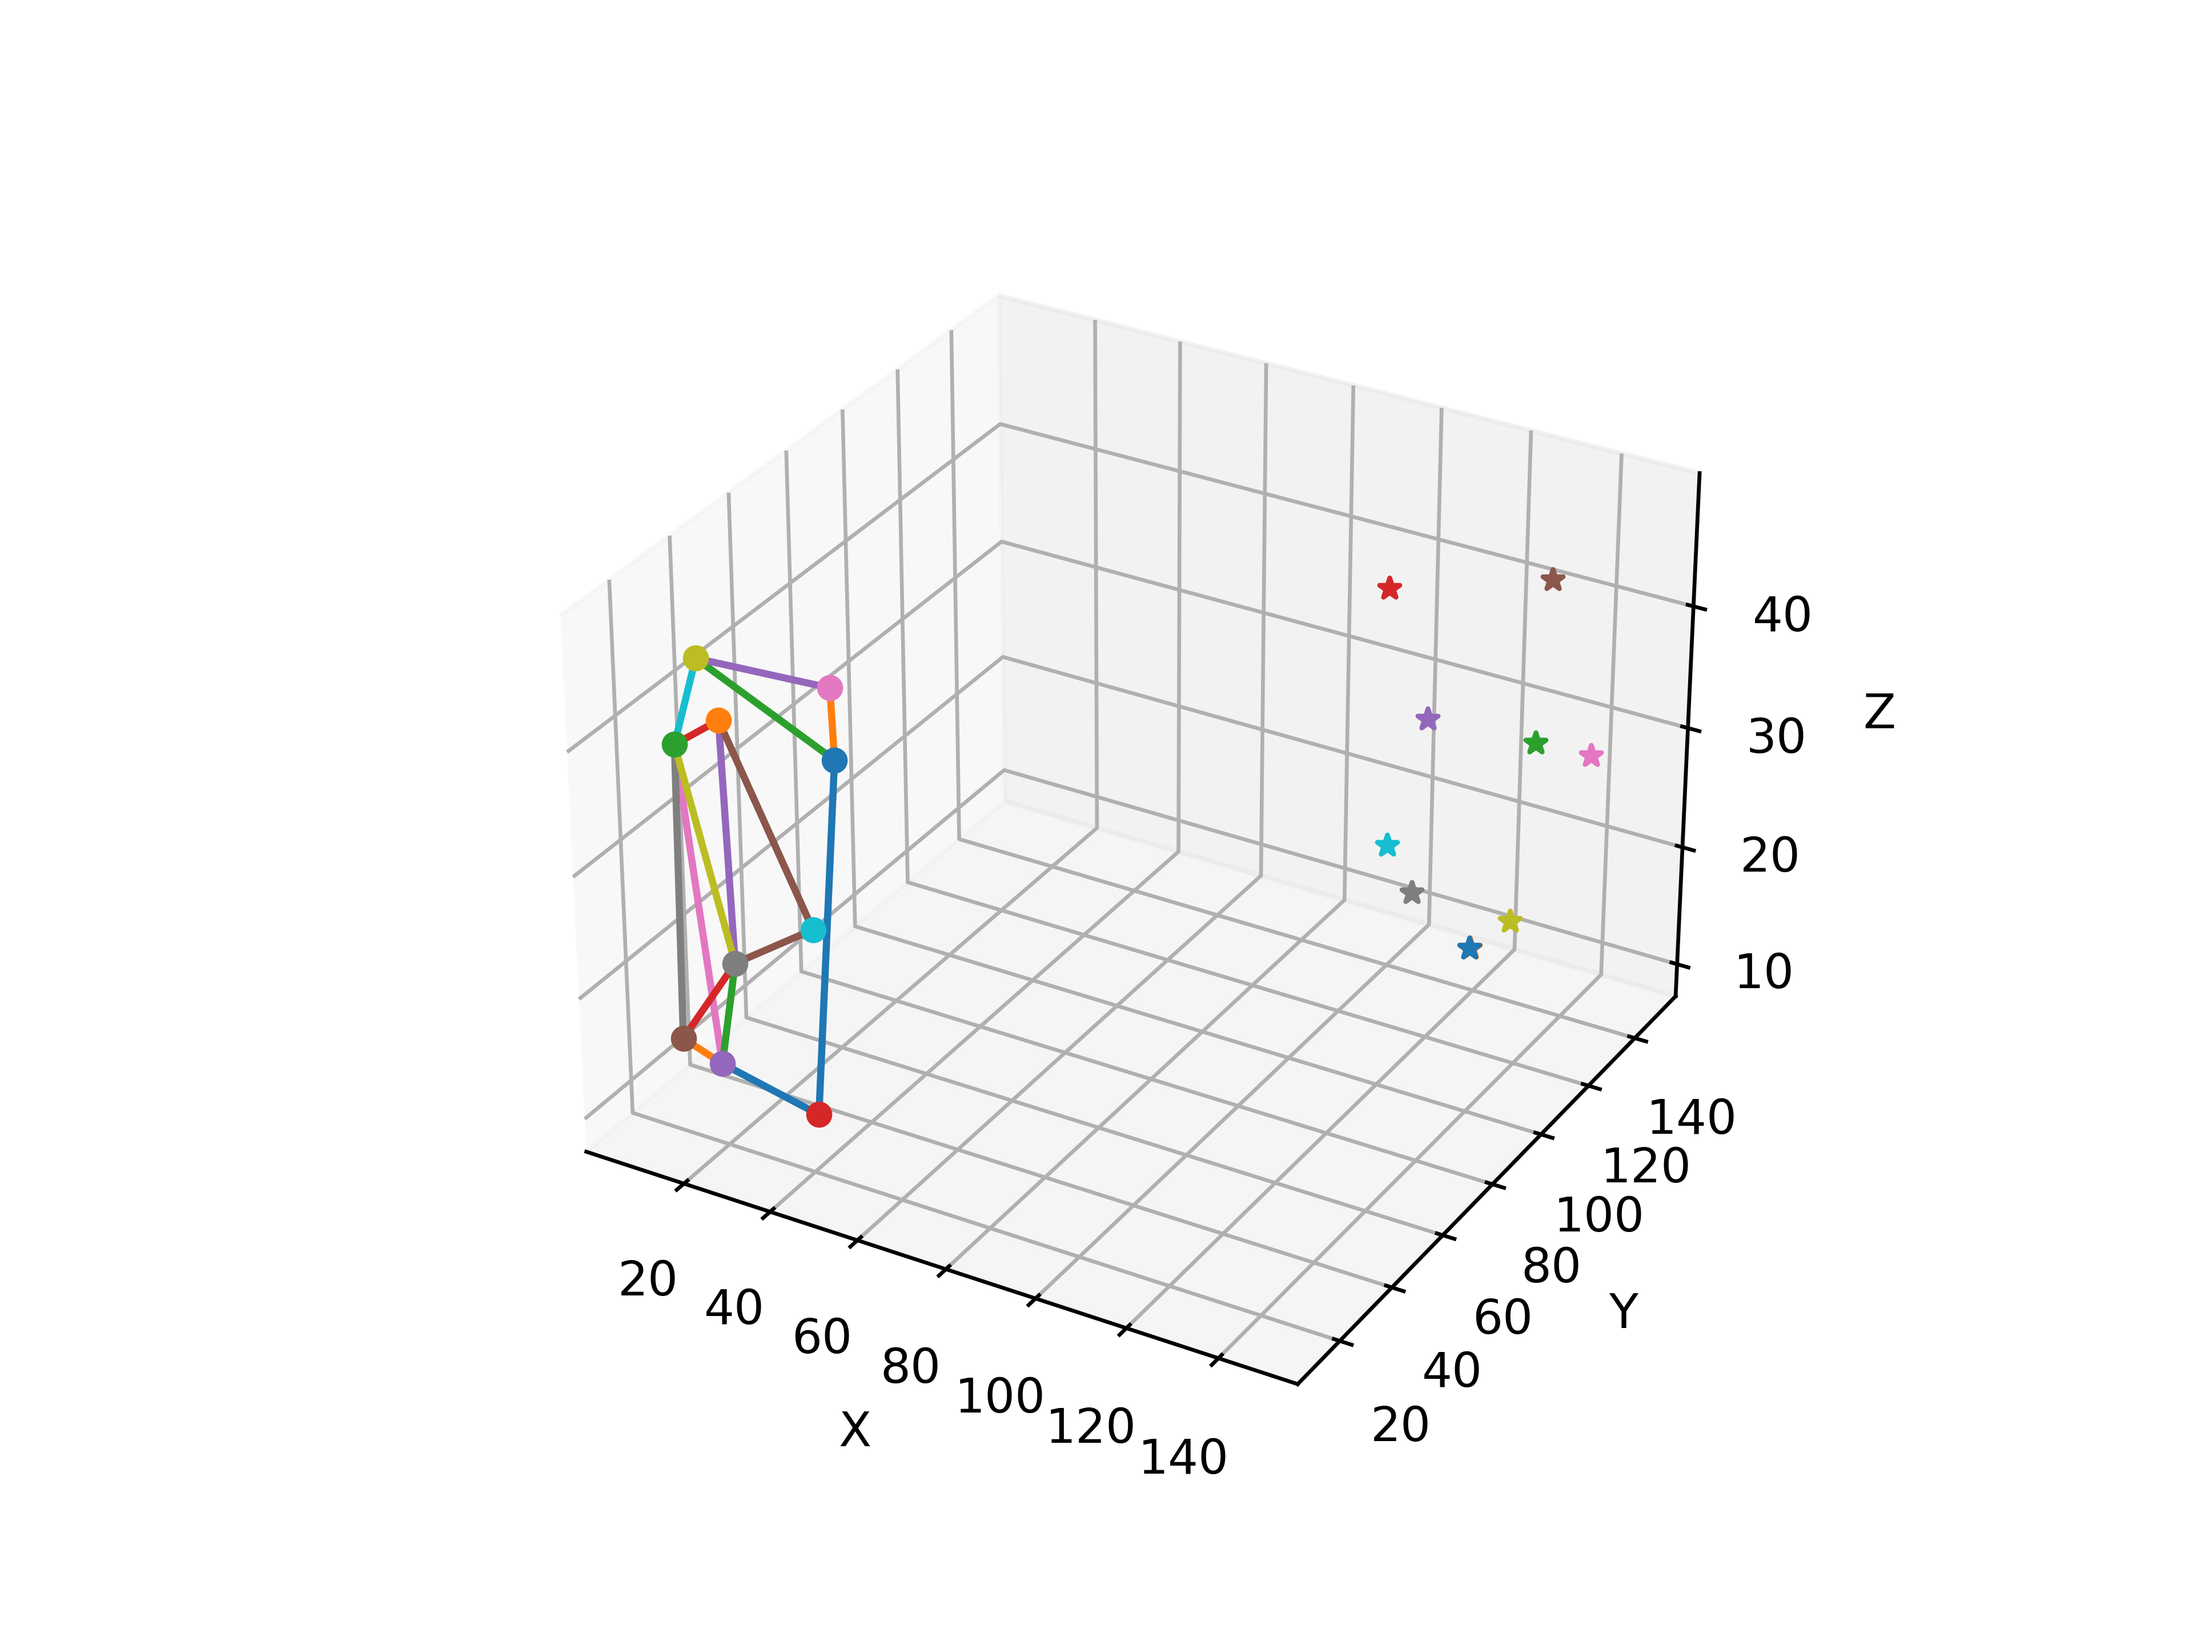
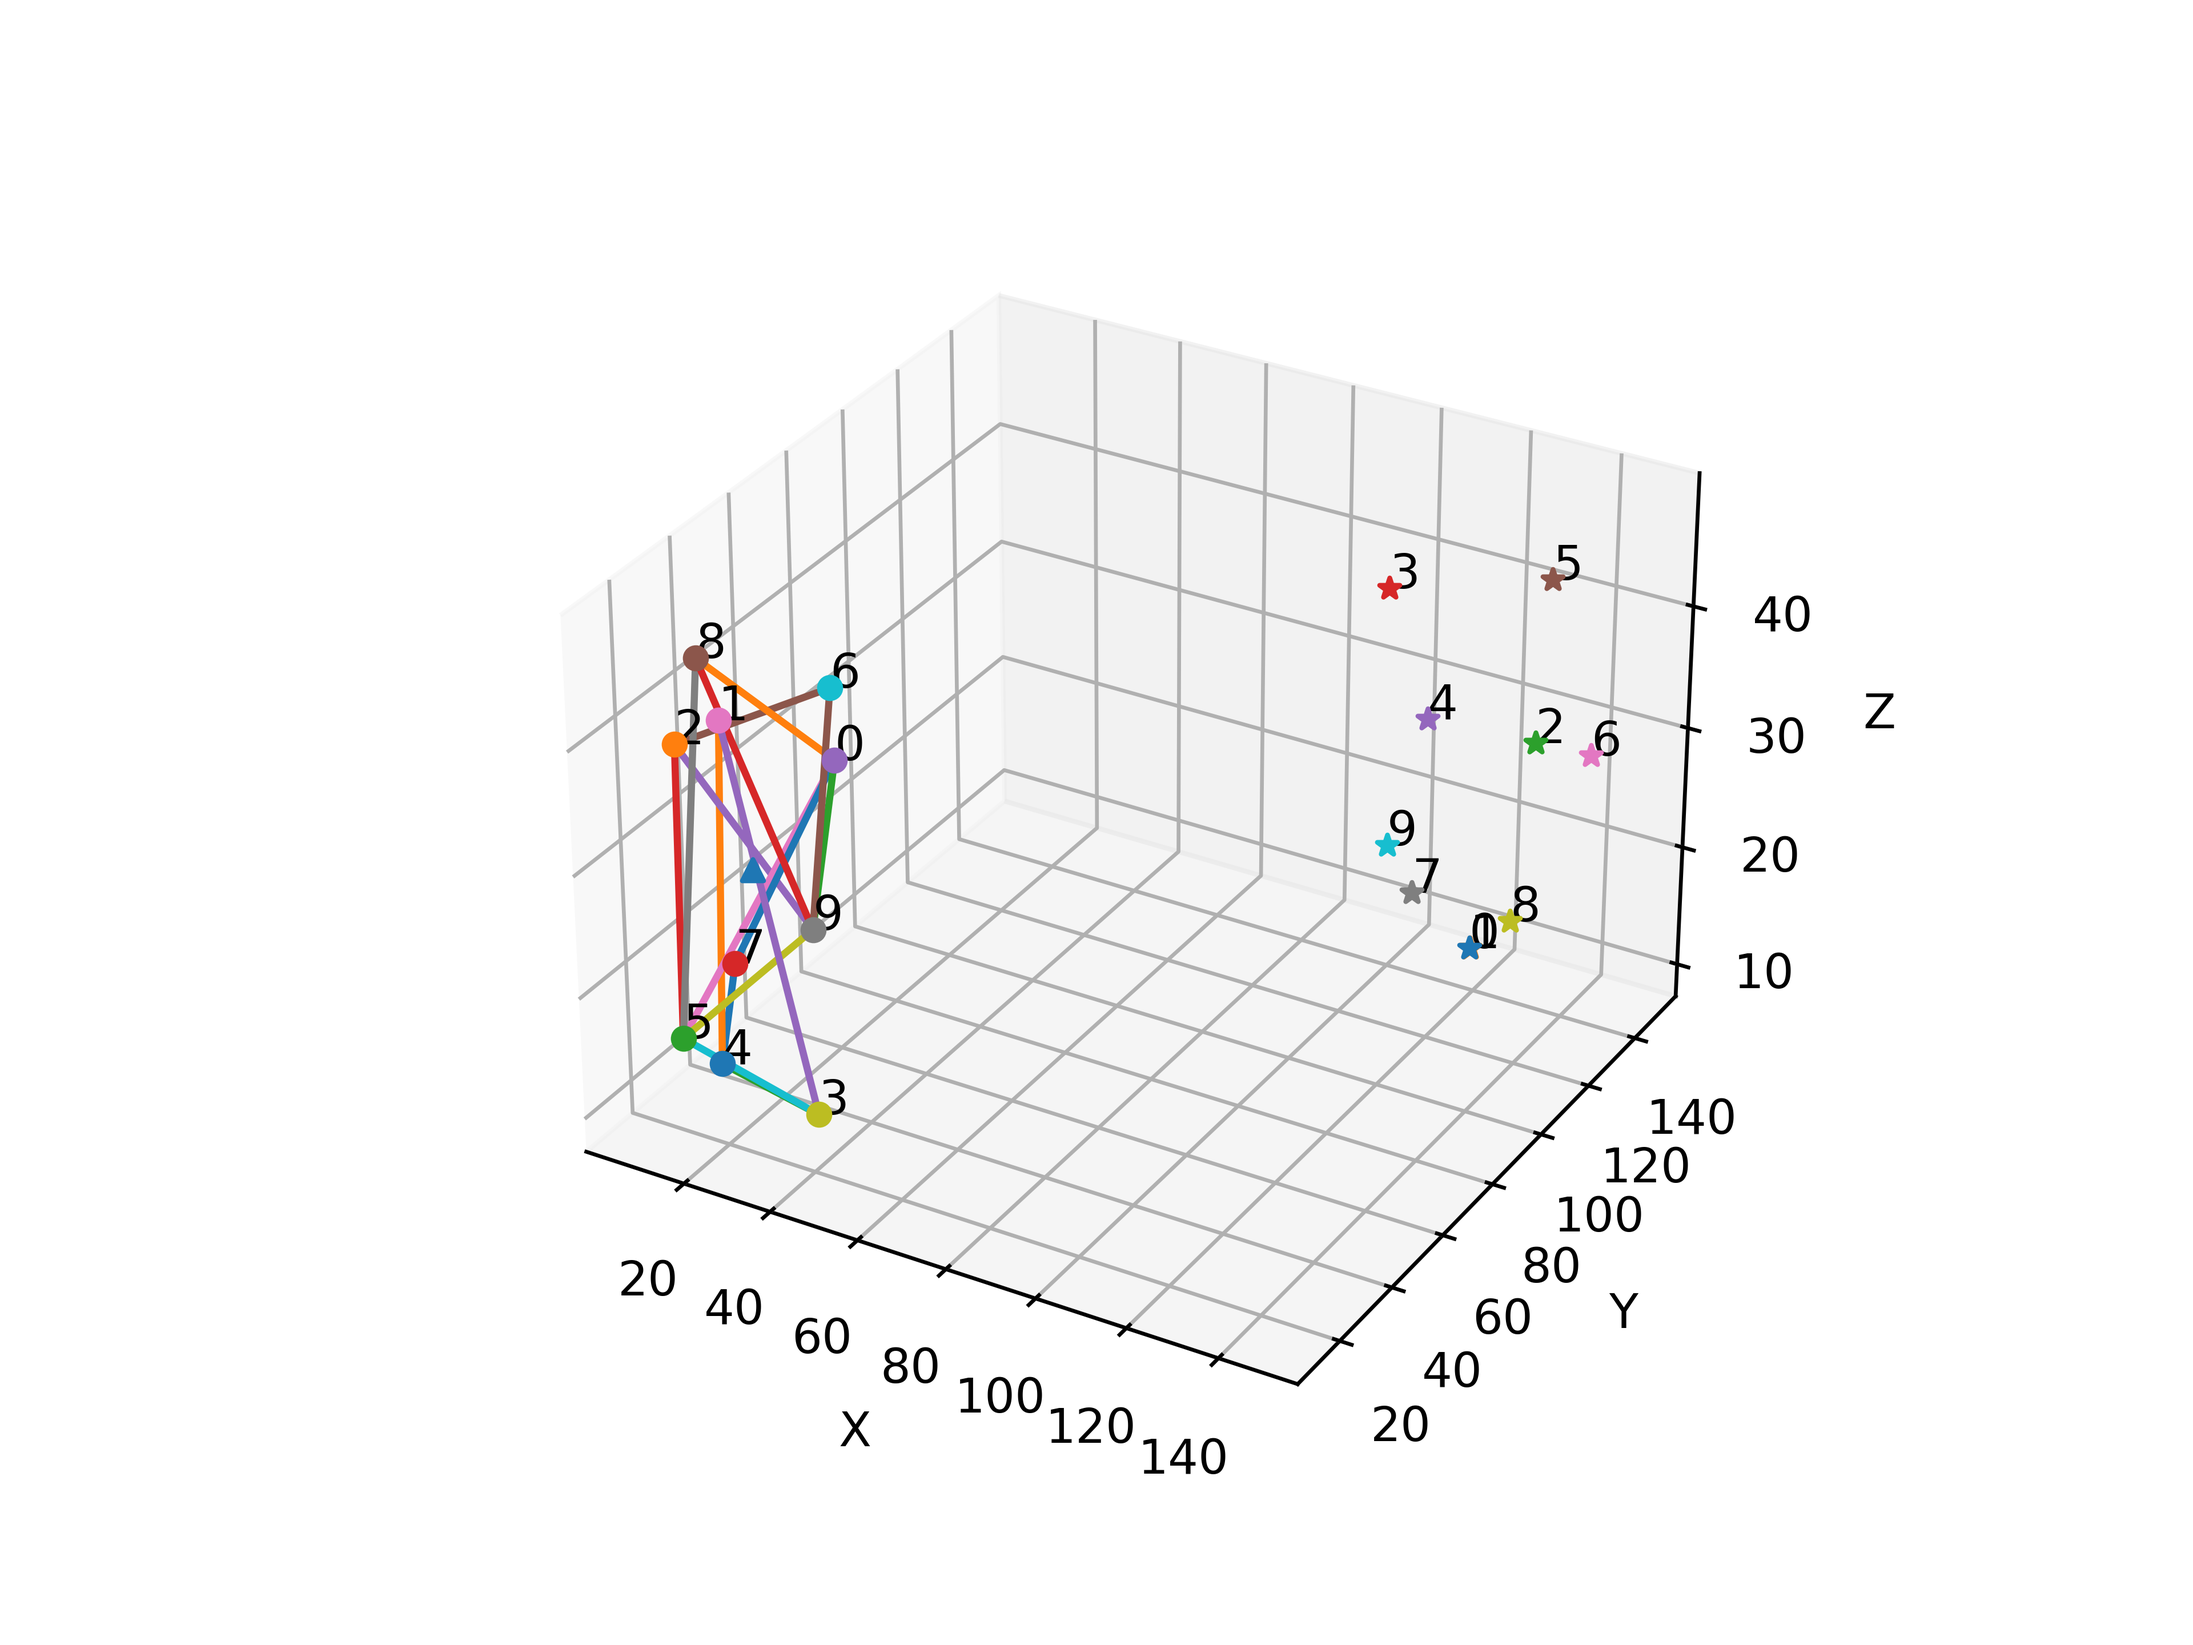
CalcPayoff, SolveGG and update plot

diff --git a/algorithm.py b/algorithm.py
@@ -50,7 +50,7 @@ class Algorithm:
 
         return T, W
 
-    def GetNeighborhood(self, T, W, G):
+    def GetNeighborhood(self, T, W):
         pos_sum = np.array([0., 0., 0.])
         for i in range(W.num):
             pos_sum += W.units[i].position
@@ -65,7 +65,7 @@ class Algorithm:
         for i in range(W.num):
             for j in range(W.num):
                 if W.G[i][j] == 1:
-                    W.units[i].NWL.append(j)
+                    W.units[i].NWL.append({"id":j})
             print("NeighborWL {}: {}".format(i, W.units[i].NWL))
 
         # calc NWLs in uniti
@@ -76,5 +76,16 @@ class Algorithm:
             for j in range(T.num):
                 di = T.units[j].position - W.units[i].position
                 if di.dot(direction) / np.linalg.norm(di) > 0.99:   # cos theta
-                    W.units[i].NTL.append(j)
+                    W.units[i].NTL.append({"id":j})
             print("NeighborTL {}: {}".format(i, W.units[i].NTL))
+
+    def CalcPayoff(self, T, W, M):
+        for i in range(W.num):
+            for t in W.units[i].NTL:
+                t["payoff"] = M - np.linalg.norm(W.units[i].position - T.units[t["id"]].position)
+            print("NeighborTL {}: {}".format(i, W.units[i].NTL))
+
+    def SolveGG(self, T, W):
+        for i in range(W.num):
+            W.units[i].cohesion = np.linalg.norm(W.units[i].position - W.center)
+        W.units.sort(key=lambda x: (x.cohesion))

diff --git a/plot.py b/plot.py
@@ -11,8 +11,11 @@ class Theater:
     def render(self):
         for t in self.gta.TL.units:
             self.ax.scatter(t.position[0], t.position[1], t.position[2], marker="*")
+            self.ax.text(t.position[0], t.position[1], t.position[2], t.id)
         for w in self.gta.WL.units:
             self.ax.scatter(w.position[0], w.position[1], w.position[2], marker="o")
+            self.ax.text(w.position[0], w.position[1], w.position[2], w.id)
+        self.ax.scatter(self.gta.WL.center[0], self.gta.WL.center[1], self.gta.WL.center[2], marker="^")
         for i in range(self.gta.WL.num):
             for j in range(i+1, self.gta.WL.num):
                 if self.gta.G[i][j] == 1:

diff --git a/main.py b/main.py
@@ -20,7 +20,10 @@ class GTA:
         print(self.WL)
         self.G = self.WL.ConstructGraph()
         print(self.G)
-        self.algs.GetNeighborhood(self.TL, self.WL, self.G)
+        self.algs.GetNeighborhood(self.TL, self.WL)
+        self.algs.CalcPayoff(self.TL, self.WL, M=200)
+        self.algs.SolveGG(self.TL, self.WL)
+        print(self.WL)
 
     def main(self):
         from plot import Theater

diff --git a/swarms.py b/swarms.py
@@ -61,6 +61,7 @@ class Unit(Drone):
             self.category = "Worker"
         elif drone.camp == "Hostile":
             self.category = "Task"
+        self.cohesion = 0.
 
 
 class List(Swarm):
